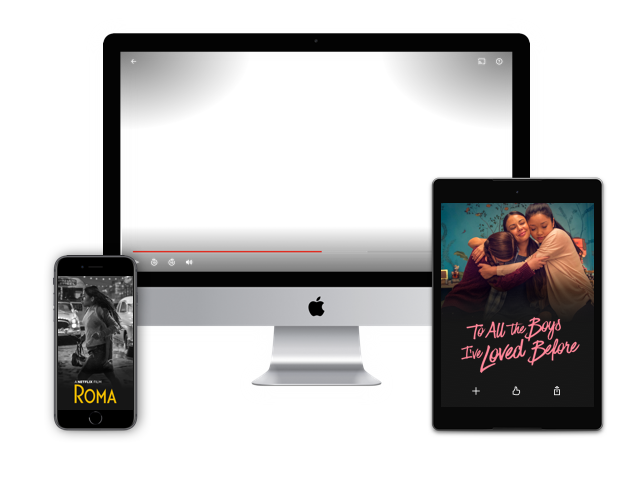
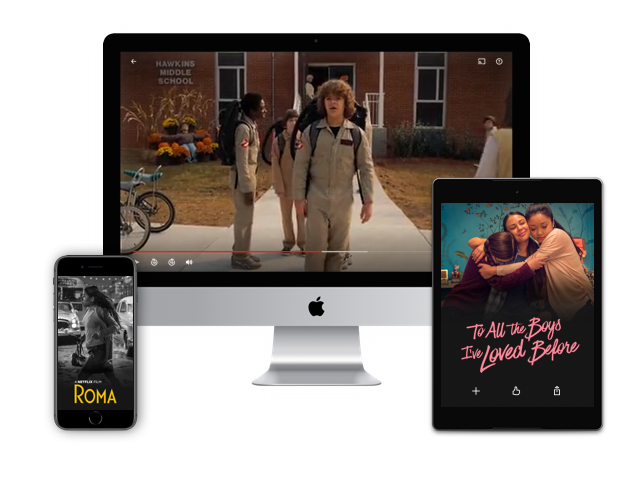
background added and correct spacing

Changed region(s): [[0.1875, 0.0938, 0.8125, 0.5938]]

diff --git a/netflixclone/pages/index.js b/netflixclone/pages/index.js
@@ -29,42 +29,50 @@ export default function Home(props) {
         <meta name="description" content="Netflix Clone Project" />
       </Head>
 
-      <div className="relative flex items-center justify-center h-82vh border-4 border-red-500 mb-2 ">
+      <div className="relative flex items-center justify-center h-82vh  border-b-8 border-stone-600 bg-black bg-gradient-to-b">
 
-        <Image className="z-1" layout='fill' objectFit="cover" src="/LandingPage/landingBackground.jpg" />
+        <Image className="z-0 " layout='fill' objectFit="cover" src="/LandingPage/landingBackground.jpg" />
 
-        <div className="story-card-text border-4 border-pink-500 relative text-white text-center " >
+        <div className="story-card-text  relative text-white text-center  " >
           <h1 className="story-card-title text-5xl font-bold">Unlimited movies, TV shows, and more.</h1>
           <h2 className="our-story-card-subtitle text-xl">Watch anywhere. Cancel anytime. </h2>
           <h3 className="email-form-title block m-1 font-semibold">Ready to watch? Enter your email to create or restart your membership.</h3>
           <form className="form-email flex justify-center md:flex-wrap sm:flex-wrap" /* method get */ >
             <input className="px-6 py-2 w-8/12 h-12 px-10 border-2 text-left text-black border-gray-400 outline-indigo-600 rounded-sm text-base" type="email" id="email" placeholder="Email Address" name="email" />
-            <input className="bg-red-600 px-6 py-2 m-2 rounded text-white select-none  cursor-pointer  " type="submit" value="Get Started >" />
+            <input className="bg-red-600 px-4 py-3 m-2 rounded text-white select-none  cursor-pointer  " type="submit" value="Get Started >" />
           </form>
 
         </div>
       </div>
 
-      <div className=" mb-2">
-        <h1 className="our-story-card font-bold block mb-1.5 text-4xl"> Enjoy on your TV.</h1>
-        <h2 className="our-story-card-subtitle "> Watch on Smart TVs, Playstation, Xbox, Chromecast, Apple TV, Blu-ray players, and more.</h2>
+      <div className=" text-center  border-b-8 border-stone-600  bg-black ">
+      
+        <h1 className="our-story-card font-bold block mb-1.5 text-4xl text-white pt-5"> Enjoy on your TV.</h1>
+        <h2 className="our-story-card-subtitle text-white text-2xl"> Watch on Smart TVs, Playstation, Xbox, Chromecast, Apple TV, Blu-ray players, and more.</h2>
         <Image className="" width={640} height={480} src="/LandingPage/tv.png" />
       </div>
 
-      <div className=" mb-2">
-        <h1 className="our-story-card font-bold block mb-1.5 text-4xl"> Watch everywhere. </h1>
-        <h2 className="our-story-card-subtitle ">Stream unlimited movies and TV shows on your phone, tablet, laptop, and TV without paying more.</h2>
+      <div className=" text-center border-b-8 border-stone-600 bg-black pt-5">
+        <h1 className="our-story-card font-bold block mb-1.5 text-4xl text-white">Download your shows to watch offline. </h1>
+        <h2 className="our-story-card-subtitle text-white text-2xl">Save your favorites easily and always have something to watch.</h2>
+        <Image className="" width={640} height={480} src="/LandingPage/mobile-0819.jpg" />
+      </div>
+
+      <div className="  text-center border-b-8 border-stone-600 bg-black">
+        
+        <h1 className="our-story-card font-bold block mb-1.5 text-4xl text-white pt-5"> Watch everywhere. </h1>
+        <h2 className="our-story-card-subtitle text-white text-2xl">Stream unlimited movies and TV shows on your phone, tablet, laptop, and TV without paying more.</h2>
         <Image className="" width={640} height={480} src="/LandingPage/device-pile.png" />
       </div>
 
-      <div className=" mb-2">
-        <h1 className="our-story-card font-bold block mb-1.5 text-4xl"> Create profiles for kids.</h1>
-        <h2 className="our-story-card-subtitle "> Send kids on adventures with their favorite characters in a space made just for them—free with your membership.</h2>
+      <div className="  text-center border-b-8 border-stone-600 bg-black">
+        <h1 className="our-story-card font-bold block mb-1.5 text-4xl text-white pt-5"> Create profiles for kids.</h1>
+        <h2 className="our-story-card-subtitle text-white text-2xl"> Send kids on adventures with their favorite characters in a space made just for them—free with your membership.</h2>
         <Image className="" width={640} height={480} src="/LandingPage/kids.png" />
       </div>
 
-      <div className="mb-2">
-        <h1 className="our-story-card"> Frequently Asked Questions</h1>
+      <div className=" text-center bg-black text-white">
+        <h1 className="our-story-card text-4xl pt-5"> Frequently Asked Questions</h1>
         <ul>
           <li className="faq-list-item">
             <button class="faq-question">What is Netflix?</button>
@@ -82,14 +90,14 @@ export default function Home(props) {
             <button class="faq-question">Is Netflix good for kids?</button>
           </li>
         </ul>
-      <form>
+      <form className="border-b-8 border-stone-600">
         <h3 className="email-form-title">Ready to watch? Enter your email to create or restart your membership.</h3>
         <input className="px-6 py-2 w-8/12 h-12 px-10 border-2 text-left text-black border-gray-400 outline-indigo-600 rounded-sm text-base" type="email" id="email" placeholder="Email Address" name="email" />
             <input className="bg-red-600 px-6 py-2 m-2 rounded text-white select-none  cursor-pointer  " type="submit" value="Get Started >" />
       </form>
       </div>
 
-      <footer className="footer">
+      <footer className="footer bg-black text-white">
         <h3>Questions? Call 1-844-505-2993</h3>
       </footer>
     </div>

diff --git a/netflixclone/components/Navbar.js b/netflixclone/components/Navbar.js
@@ -5,7 +5,7 @@ export default function Navbar() {
     return (
         <>
 
-            <div className="Navbar flex justify-between">
+            <div className="Navbar flex justify-between absolute left-0 right-0 z-10 ">
 
 
                 <div className="navTitle " >
@@ -13,11 +13,10 @@ export default function Navbar() {
                 </div>
 
                 <div className="linkContainer flex list-none ">
-                    <li>
+                    <li >
                         <select className="bg-zinc-800/60 px-2 py-2 rounded text-white m-4" name="languageMenu">
                             <option value="English">English</option>
                             <option  value="Espanol">Espanol</option>
-        
                         </select>
                     </li>
                     <li>

diff --git a/netflixclone/tailwind.config.js b/netflixclone/tailwind.config.js
@@ -1,4 +1,6 @@
 /** @type {import('tailwindcss').Config} */
+
+
 module.exports = {
   content: [
     "./pages/**/*.{js,ts,jsx,tsx}",
@@ -15,10 +17,11 @@ module.exports = {
 			"60vh": "60vh",
 			"70vh": "70vh",
 			"82vh": "82vh",
-      "85vh": "85vh",
+      		"85vh": "85vh",
 			"90vh": "90vh",
 			"100vh": "100vh",
 		},
+
   },
   plugins: [],
 }

diff --git a/netflixclone/pages/_app.js b/netflixclone/pages/_app.js
@@ -4,7 +4,7 @@ import Navbar from '../components/Navbar'
 function MyApp({ Component, pageProps }) {
   return (
     <>
- {/*      <Navbar /> */}
+       <Navbar /> 
       <Component {...pageProps} />
     </>
   )

diff --git a/netflixclone/styles/globals.css b/netflixclone/styles/globals.css
@@ -18,3 +18,13 @@ a {
 * {
   box-sizing: border-box;
 }
+
+.our-story-card-video {
+  width: 100%;
+  height: 100%;
+  max-width: 53%;
+  max-height: 54%;
+  position: absolute;
+  top: 88%;
+  left: 10%;
+}
